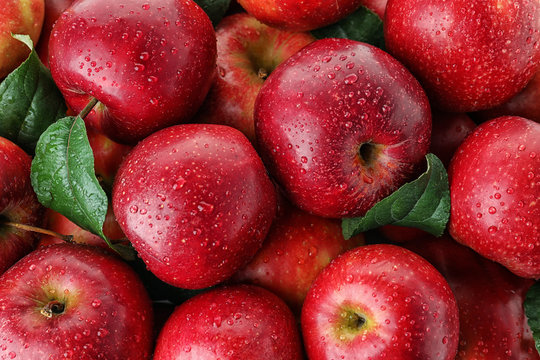
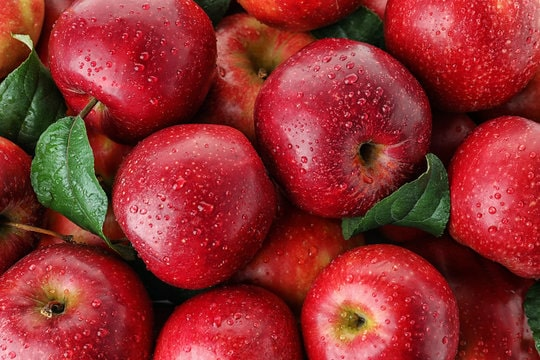
Cookies, code optimization, image compression
* Percentages are now saved as cookies for 1 day and used to restore progress
* Added "Set all to 100%" button
* Compressed images to improve loading times
* JS code optimization

Changed region(s): [[0.3556, 0.0, 0.3852, 0.0306], [0.1481, 0.275, 0.1778, 0.3056], [0.1481, 0.1833, 0.1778, 0.2139]]

diff --git a/main.js b/main.js
@@ -1,4 +1,30 @@
-// tlačítko změní všechny hodnoty
+console.log("Verze 4.62")
+
+// Po načtení
+window.onload = function() {
+    cookies_read();
+    checkForGoalComplete();
+    checkToShowHealthWarnings();
+};
+
+// Cookies
+function cookies_read() {
+    document.getElementById("stepsprogress").value = Cookies.get("steps");
+    document.getElementById("distanceprogress").value = Cookies.get("distance");
+    document.getElementById("azmprogress").value = Cookies.get("azm");
+    display_percentages_sliders();
+    removeMissingValueWarning();
+}
+
+function saveValuesToCookies() {
+    // Všechny cookies vyprší za 1 den
+    Cookies.set("steps", steps, { expires: 1 }); // Cookie jménem steps má hodnotu variablu steps a vyprší za 1 den
+    Cookies.set("distance", distance, { expires: 1 });
+    Cookies.set("azm", azm, { expires: 1 });
+    console.log("uloženo do cookies")
+}
+
+// tlačítko změní všechny hodnoty na náhodné číslo
 function randomize(){
     steps = Math.random() * 100;
     distance = Math.random() * 100;
@@ -9,37 +35,35 @@ function randomize(){
     document.getElementById("distanceprogress").value = distance;
     document.getElementById("azmprogress").value = azm;
 
+    // Poznámka do konzole - tady mi AI od Googlu pomohlo se zaokrouhlením
+    console.log(""); // prázdno pro oddělení od ostatních konzolových sdělení
+    console.log("hodnoty změněny na", Math.round(steps),",", Math.round(distance),",", Math.round(azm));
+
+    saveValuesToCookies();          // 1 Uloží hodnoty do souborů cookie pro automatické obnovení při načtení stránky
+    display_percentages_sliders();  // 2 Zobrazí procentuální hodnotu cvičení (zaokrouhleno)
+    checkToShowHealthWarnings();    // 3 Zkontroluje zda má uživatel dost kroků, vzdálenosti a cvičení
+    checkForGoalComplete();         // 4 Kontrola zda se má zobrazit fajvka
+    removeMissingValueWarning();    // 5 Odebere varování o chybících hodnotách
+}
+
+function removeMissingValueWarning() {
     // odebere varování
     document.getElementById("debugnotice").innerHTML = "";
     document.getElementById("debugnotice").style.backgroundColor = "transparent";
-
-    // Poznámka do konzole - tady mi AI od Googlu pomohlo se zaokrouhlením
-    console.log("hodnoty změněny na", Math.round(steps),",", Math.round(distance),",", Math.round(azm));
-
-    // Kontrola zda je cvičení dostatečné
-    checkForExercise();
-
-    // Kontrola zda jsou kroky dostatečné
-    checkForSteps();
-
-    // Kontrola zda je vzdálenost dostatečná
-    checkForDistance();
-
-    // Kontrola fajvek
-    checkForGoalComplete();
-
-    // Uloží hodnoty do souborů cookie pro automatické obnovení při načtení stránky
-    saveValuesToCookies();
 }
 
-function saveValuesToCookies() {
-    // Všechny cookies vyprší za 1 den
-    Cookies.set("steps", steps, { expires: 1 });
-    Cookies.set("distance", distance, { expires: 1 });
-    Cookies.set("azm", azm, { expires: 1 });
+function display_percentages_sliders() {
+    // zobrazení procentuální hodnoty cvičení
+    document.getElementById("azmprogresstext").innerHTML = Math.round(azmprogress.value) + "%";
+
+    // zobrazení procentuální hodnoty kroků
+    document.getElementById("stepsprogresstext").innerHTML = Math.round(stepsprogress.value) + "%";
+
+    // zobrazení procentuální hodnoty vzdálenosti
+    document.getElementById("distanceprogresstext").innerHTML = Math.round(distanceprogress.value) + "%";
 }
 
-function checkForExercise(){
+function checkToShowHealthWarnings(){
     // Varování o málo cvičení
     if (azmprogress.value > 30) {
         document.getElementById("more_exercise_tip").innerHTML = ""
@@ -48,13 +72,7 @@ function checkForExercise(){
     if (azmprogress.value < 30) {
         document.getElementById("more_exercise_tip").innerHTML = "You don't have enough exercise today"
     }
-    // zobrazení procentuální hodnoty cvičení
-    document.getElementById("azmprogresstext").innerHTML = Math.round(azmprogress.value) + "%";
 
-    // Zde mi pomohlo AI od Googlu se zaokrouhlením
-}
-
-function checkForSteps(){
     // Varování o málo krocích
     if (stepsprogress.value > 30) {
         document.getElementById("more_steps_tip").innerHTML = ""
@@ -63,11 +81,7 @@ function checkForSteps(){
     if (stepsprogress.value < 30) {
         document.getElementById("more_steps_tip").innerHTML = "You haven't met your step goal yet"
     }
-    // zobrazení procentuální hodnoty kroků
-    document.getElementById("stepsprogresstext").innerHTML = Math.round(stepsprogress.value) + "%";
-}
 
-function checkForDistance(){
     // Varování o málo ušlé vzdálenosti
     if (distanceprogress.value > 30) {
         document.getElementById("more_distance_tip").innerHTML = ""
@@ -76,8 +90,6 @@ function checkForDistance(){
     if (distanceprogress.value < 30) {
         document.getElementById("more_distance_tip").innerHTML = "You haven't met your distance goal yet"
     }
-    // zobrazení procentuální hodnoty vzdálenosti
-    document.getElementById("distanceprogresstext").innerHTML = Math.round(distanceprogress.value) + "%";
 }
 
 // Kontrola zda jsou kroky dostatečné, přidá fajvku
@@ -106,13 +118,19 @@ function removetestingbutton() { // Aktuálně nevyužito
     element.parentNode.removeChild(element);
 }
 
-console.log("Verze 3.83")
+function setAllToMax() {
+    steps = 100;
+    distance = 100;
+    azm = 100;
 
-// zkušební funkce
-function cookie_save() {
-    Cookies.set("steps", steps, { expires: 7 }); // Cookie jménem steps má hodnotu variablu steps a vyprší za 7 dní
-}
+    // změnit hodnoty progress barů
+    document.getElementById("stepsprogress").value = steps;
+    document.getElementById("distanceprogress").value = distance;
+    document.getElementById("azmprogress").value = azm;
 
-function cookie_read() {
-    document.getElementById("stepsprogress").value = Cookies.get("steps");
+    display_percentages_sliders();
+    checkForGoalComplete();
+    removeMissingValueWarning();
+    saveValuesToCookies();
+    checkToShowHealthWarnings();
 }

diff --git a/index.html b/index.html
@@ -8,14 +8,11 @@
     <link rel="stylesheet" type="text/css" media="screen" href="main.css" />
     <link rel="icon" type="image/x-icon" href="icons/favicon.svg">
     <script src="main.js"></script>
-    
-    <!-- Google fonts integration -->
+    <!-- Google fonts integration, Icons provided by Google Fonts -->
     <link rel="preconnect" href="https://fonts.googleapis.com">
     <link rel="preconnect" href="https://fonts.gstatic.com" crossorigin>
     <link href="https://fonts.googleapis.com/css2?family=DM+Sans:ital,opsz,wght@0,9..40,400;1,9..40,100&display=swap" rel="stylesheet">
-    <!-- Credit: Icons provided by Google Fonts -->
-
-    <!-- cookie-js -->
+    <!-- js-cookie modul (https://github.com/js-cookie/js-cookie/)-->
     <script src="https://cdn.jsdelivr.net/npm/js-cookie@3.0.5/dist/js.cookie.min.js"></script>
 </head>
 
@@ -26,9 +23,8 @@
             <img src="icons/mainicon.svg" id="mainicon" width=32 height=32>
             Fittastrophe
             <button type="button" id="randomizebutton" onclick="randomize()">Randomize</button>
-            <button type="button" id="cookiebutton" onclick="cookie_save()">Cookie</button>
-            <button type="button" id="cookiebutton2" onclick="cookie_read()">Cookie read</button>
-            <label id="debugnotice">Warning: Value for progress not yet set</label></h1>
+            <button type="button" id="Maxpercentbutton" onclick="setAllToMax()">Set all to 100%</button>
+            <label id="debugnotice">Warning: Progress values returned undefined</label></h1>
         </h1>
 
             <h2 class="tab" id="tab0"><a>Dashboard</a></h2>
@@ -39,7 +35,7 @@
      <!-- Sidebar, Steps category -->
      <div id="sidebar">
         <div class="fitness_statistics">
-            <h2 class="generaltitle"><img class="inline_icon" src="icons/Steps.svg">Steps <img src="icons/checkmark.svg" class="checkmark" id="stepscheckmark"></img></h2>
+            <h2 class="generaltitle"><img class="inline_icon" src="icons/Steps.svg">Steps<img src="icons/checkmark.svg" class="checkmark" id="stepscheckmark"></img></h2>
             <label for="steps"></label>
             <progress id="stepsprogress" value="0" max="100"></progress> <!-- random hodnota -->
             <p class="progressbartext" id="stepsprogresstext">0%</p> <!-- popis hodnoty, mění se -->
@@ -47,7 +43,7 @@
 
         <!-- Sidebar, Distance category -->
         <div class="fitness_statistics">
-            <h2 class="generaltitle"><img class="inline_icon" src="icons/Distance.svg">Distance <img src="icons/checkmark.svg" class="checkmark" id="distancecheckmark"></img></h2>
+            <h2 class="generaltitle"><img class="inline_icon" src="icons/Distance.svg">Distance<img src="icons/checkmark.svg" class="checkmark" id="distancecheckmark"></img></h2>
             <label for="distance"></label>
             <progress id="distanceprogress" value="0" max="100"></progress> <!-- random hodnota -->
             <p class="progressbartext" id="distanceprogresstext">0%</p> <!-- popis hodnoty, mění se -->
@@ -55,7 +51,7 @@
 
         <!-- Sidebar, AZM category, AZM = active zone minutes-->
         <div class="fitness_statistics">
-            <h2 class="generaltitle"><img class="inline_icon" src="icons/AZM.svg">Movement minutes <img src="icons/checkmark.svg" class="checkmark" id="azmcheckmark"></img></h2>
+            <h2 class="generaltitle"><img class="inline_icon" src="icons/AZM.svg">Movement minutes<img src="icons/checkmark.svg" class="checkmark" id="azmcheckmark"></img></h2>
             <label for="AZM"></label>
             <progress id="azmprogress" value="0" max="100"></progress> <!-- value controlled by randomize() -->
             <p class="progressbartext" id="azmprogresstext">0%</p> <!-- value description, can change -->

diff --git a/main.css b/main.css
@@ -26,11 +26,10 @@ div.fitness_statistics {
 }
 
 progress {
-    width: 0%;
+    width: 92%;
     height: 25%;
     margin: -1rem 0 0 1rem; /* Top, right, bottom, left */
     border-radius: 999rem;
-    animation: slider_loading 0.8s forwards 0.5s;
 }
 
 progress::-webkit-progress-bar {
@@ -45,7 +44,7 @@ progress::-webkit-progress-bar {
  #contentbackground {
     background-color: white;
     border-top-left-radius: 1.25rem;
-    height: 53.2em;
+    height: 57.2rem;
     margin-top: 0.725rem;
     margin-left: 20em;
  }
@@ -66,6 +65,21 @@ progress::-webkit-progress-bar {
 }
 
 #randomizebutton:active {
+    animation: button_press 0.15s forwards;
+}
+
+#Maxpercentbutton {
+    animation: button_press_revert 0.15s forwards;
+    background-color: white;
+    border-color: transparent;
+    padding: 1rem;
+    float: right;
+    margin-right: 1rem;
+    border-radius: 999rem;
+    font: 0.4em "DM Sans";
+}
+
+#Maxpercentbutton:active {
     animation: button_press 0.15s forwards;
 }
 
@@ -198,16 +212,6 @@ img.checkmark {
 }
 
 /* animation */
-@keyframes slider_loading {
-    from {width: 0%;}
-    to {width: 92%;}
-}
-
-@keyframes generaltitle_loading {
-    from {color: transparent; margin-top: 5.625rem;}
-    to {color: black; margin-top: 1.75rem;}
-}
-
 @keyframes button_press {
     from {color: black; background-color: white; scale: 1;}
     to {color: white; background-color: gray; scale: 0.89;}

diff --git a/subpages/coach.html b/subpages/coach.html
@@ -6,6 +6,7 @@
     <title>Fittastrophe coach</title>
     <meta name="viewport" content="width=device-width, initial-scale=1">
     <link rel="stylesheet" type="text/css" media="screen" href="../main.css" />
+    <link rel="icon" type="image/x-icon" href="../icons/favicon.svg">
     <script src="../main.js"></script>
 
     <!-- Google fonts integration -->

diff --git a/README.md b/README.md
@@ -5,3 +5,13 @@
 # Odkaz na stránku
 [<img src="https://s18955.pcdn.co/wp-content/uploads/2018/02/github.png" height="16" width="16"/>](https://repellentspy.github.io) https://repellentspy.github.io
 <p>Pokud jste náhodný človek, bude lepší, když tento repozitář budete ignorovat. Nic zajímavého se zde pro Vás nenachází</p>
+
+# Co projekt aktuálně obsahuje
+<ul>
+  <li>HTML rozvržení</li>
+  <li>CSS styly</li>
+  <li>JavaScript funkce, které mění části HTML</li>
+  <li>Mobilní zobrazení (nedokončeno)</li>
+  <li>Ukládání a čtení souborů cookies</li>
+  <li>Uložení stavu po odchodu ze stránky</li>
+</ul>
